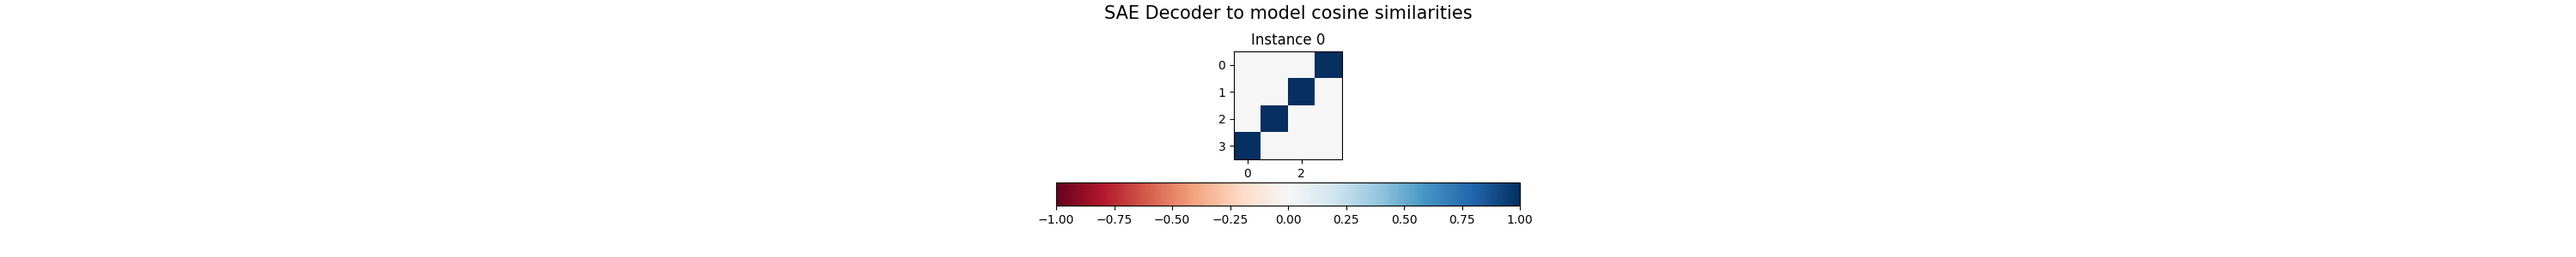
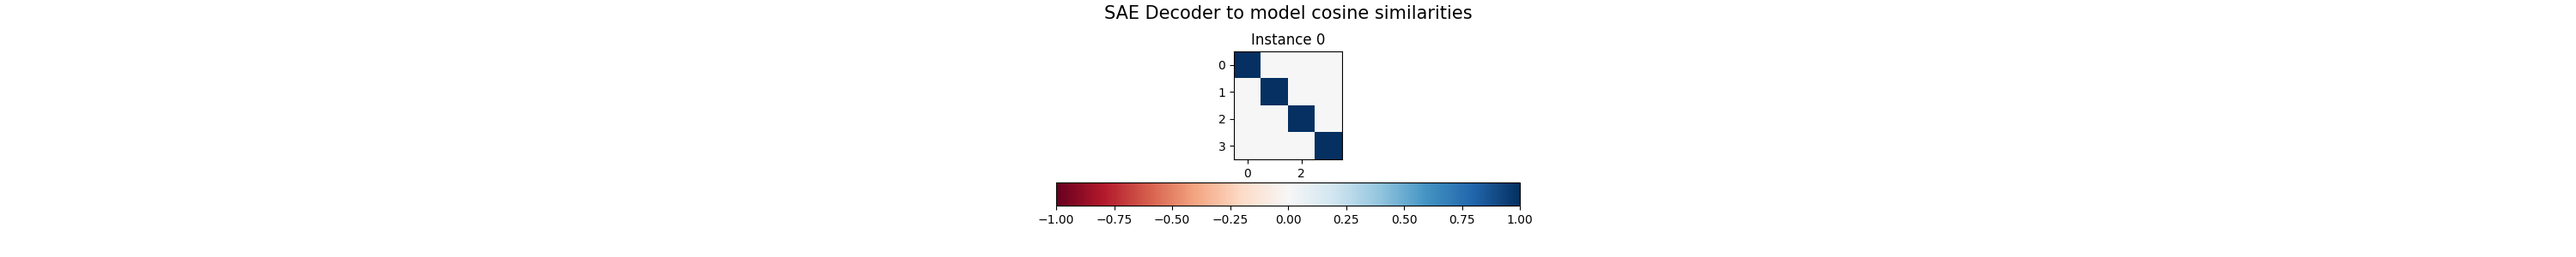
constant magnitude features

Changed region(s): [[0.465, 0.21, 0.527, 0.63]]

diff --git a/experiments/feature_absorption/run.py b/experiments/feature_absorption/run.py
@@ -1,4 +1,17 @@
 # %%
+"""Script to train and visualize feature absorption in a Toy Model of Superposition
+
+Usage as script:
+- Simply do `python experiments/feature_absorption/run.py`
+- Figures will be saved in the same directory as the script
+- Useful if you want to run all experiments at once and save the results
+
+Usage as Jupyter notebook:
+- This cell defines all the necessary classes and functions
+- Each subsequent cell runs a different experiment and visualizes the results
+- Useful if you want to run each experiment separately and inspect the results
+"""
+
 import torch
 import einops
 
@@ -27,8 +40,21 @@ from rich.text import Text
 
 MAIN = __name__ == "__main__"
 
+class IIDConstantFeatureGenerator(DataGenerator):
+    """Generates features where all features are constant"""
 
-class HierarchicalFeatureGenerator(DataGenerator):
+    def generate_batch(self, batch_size: int) -> torch.Tensor:
+        """
+        Generates a batch of data.
+        """
+        batch_shape = (batch_size, self.n_inst, self.n_features)
+        feat_seeds = torch.rand(batch_shape, device=get_device())
+        # NOTE: Magnitude fixed to be 1
+        feat_mag = torch.ones(batch_shape, device=get_device())
+        feat_vals = torch.where(feat_seeds <= self.feature_probability, feat_mag, 0.0)
+        return feat_vals
+
+class HierarchicalConstantFeatureGenerator(DataGenerator):
     """Generates features where feature 1 can only occur if feature 0 occurs"""
 
     def generate_batch(self, batch_size: int) -> torch.Tensor:
@@ -36,7 +62,8 @@ class HierarchicalFeatureGenerator(DataGenerator):
         Generates a batch of data.
         """
         batch_shape = (batch_size, self.n_inst, self.n_features)
-        feat_mag = torch.rand(batch_shape, device=get_device())
+        # NOTE: Magnitude fixed to be 1
+        feat_mag = torch.ones(batch_shape, device=get_device())
         feat_seeds = torch.rand(batch_shape, device=get_device())
         feat_vals = torch.where(feat_seeds <= self.feature_probability, feat_mag, 0.0)
         # Feature 1 can only occur if feature 0 occurs
@@ -325,7 +352,7 @@ def run_iid_experiment():
         n_features=n_features,
         feature_probability=feature_probability,
         feature_importance=feature_importance,
-        data_gen_cls=IIDFeatureGenerator
+        data_gen_cls=IIDConstantFeatureGenerator
     )
     run_experiment(config, expt_prefix="iid")
 
@@ -358,7 +385,7 @@ def run_hierarchical_experiment():
         n_features=n_features,
         feature_probability=feature_probability,
         feature_importance=feature_importance,
-        data_gen_cls=HierarchicalFeatureGenerator
+        data_gen_cls=HierarchicalConstantFeatureGenerator
     )
     run_experiment(config, expt_prefix="hrch")
 
